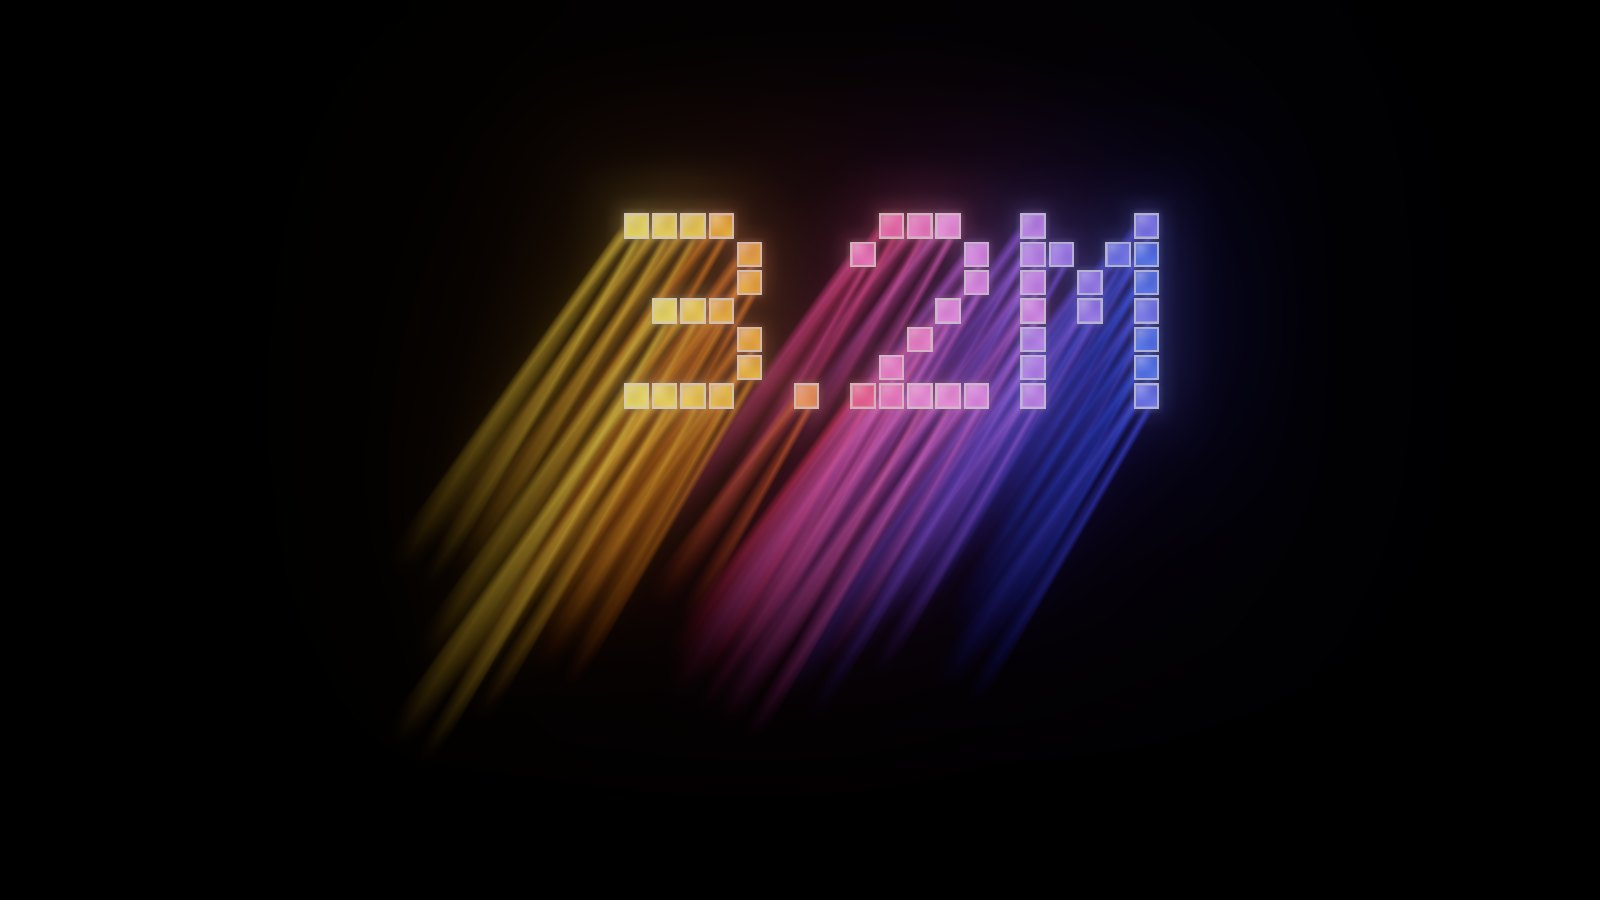
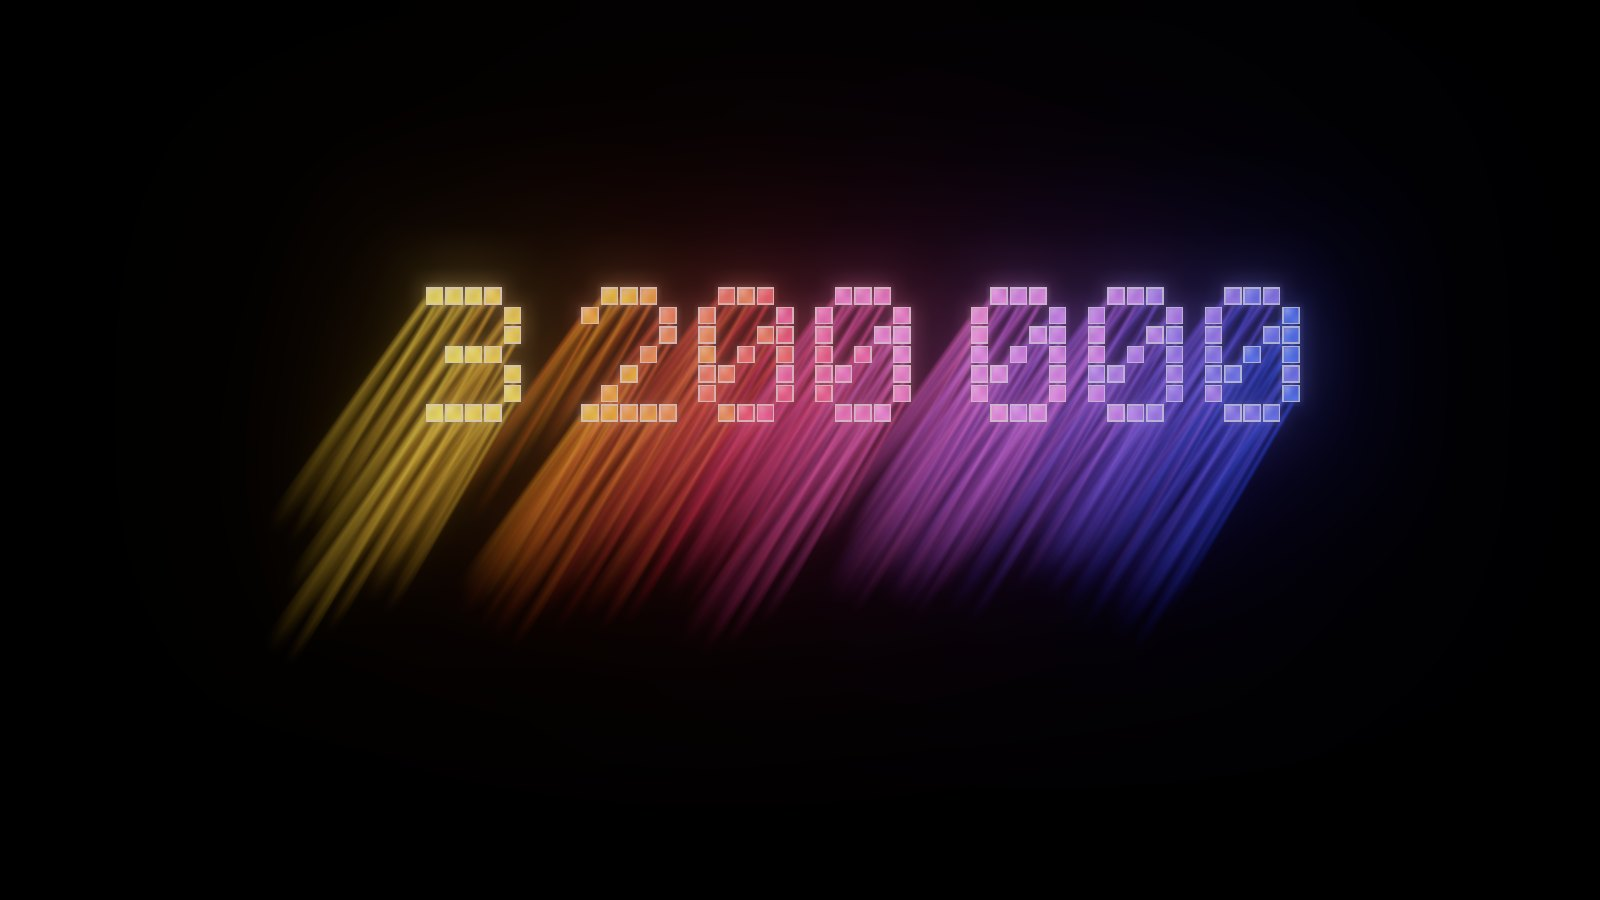
2:00:00 sur Steam, nom officiel 3 200 000, actualités sans dates incertaines
- 2:00:00 présenté comme un jeu Steam en développement.
- 3.2M renommé 3 200 000 partout (textes et visuels refaits).
- Actualités : dates retirées en attendant la chronologie validée.

Claude-Session: https://claude.ai/code/session_01AeWBKp6jY6m2cPjRKCQ14V

Changed region(s): [[0.1562, 0.1867, 0.8438, 0.8089]]

diff --git a/app.js b/app.js
@@ -21,27 +21,26 @@ const games = [
     link:"https://play.google.com/store/apps/details?id=com.FantinHD.CleanGlass"
   },
   {
-    name:"3.2M", sub:"", state:"Android · En développement",
+    name:"3 200 000", sub:"", state:"Android · En développement",
     intro:["Un seul objectif : ", "détruire 3 200 000 blocs", ". Pour y arriver, il faudra faire progresser ses billes et leurs effets."],
     more:"Billes spéciales, fusions, améliorations et missions quotidiennes sont en cours de préparation.",
     poster:"assets/images/visuels/affiche-3-2m.jpg", photo:"assets/images/affiche-3-2m.jpg", link:""
   },
   {
-    name:"2:00:00", sub:"", state:"PC · En développement",
-    intro:["2:00:00 est une ", "expérience minimaliste", " : une salle blanche, une roue et un bouton SPIN."],
-    more:"Un projet autour de l'attente et du hasard. Plus de détails bientôt.",
+    name:"2:00:00", sub:"", state:"Steam · En développement",
+    intro:["2:00:00 est une ", "expérience minimaliste sur PC", " : une salle blanche, une roue et un bouton SPIN."],
+    more:"Un projet autour de l'attente et du hasard, qui sortira sur Steam. Plus de détails bientôt.",
     poster:"assets/images/visuels/affiche-2-00-00.jpg", photo:"assets/images/affiche-2-00-00.jpg", link:""
   }
 ];
 
-/* Actualités : uniquement des informations publiques (mises à jour visibles sur Google Play)
-   et l'état des projets en cours. Pas de date inventée. */
+/* Actualités : à remplir avec la chronologie validée par Fantin.
+   En attendant, uniquement des faits sûrs, sans date. */
 const news = [
-  { date:"Septembre 2026", title:"Clean Glass mis à jour", text:"Une nouvelle mise à jour de Clean Glass est disponible sur Google Play.", img:"assets/images/visuels/clean-glass.jpg" },
-  { date:"Septembre 2026", title:"Farkle : dés et classement améliorés", text:"Les dés et leur sélection ont été retravaillés, et le classement a été renforcé.", img:"assets/images/visuels/farkle.jpg" },
-  { date:"Août 2026", title:"Farkle : boutique et nouveau look", text:"Une boutique de skins cosmétiques arrive, avec une refonte visuelle du jeu.", img:"assets/images/visuels/farkle.jpg" },
-  { date:"En développement", title:"3.2M", text:"3 200 000 blocs à détruire. Le projet avance sur Android.", img:"assets/images/visuels/3-2m.jpg" },
-  { date:"En développement", title:"2:00:00", text:"Une nouvelle expérience sur PC est en préparation.", img:"assets/images/visuels/2-00-00.jpg" }
+  { date:"En développement", title:"2:00:00 arrive sur Steam", text:"Une expérience minimaliste autour de l'attente et du hasard, en préparation pour Steam.", img:"assets/images/visuels/2-00-00.jpg" },
+  { date:"En développement", title:"3 200 000", text:"3 200 000 blocs à détruire. Le projet avance sur Android.", img:"assets/images/visuels/3-2m.jpg" },
+  { date:"Disponible", title:"Clean Glass", text:"Le jeu de nettoyage relaxant est disponible sur Google Play.", img:"assets/images/visuels/clean-glass.jpg" },
+  { date:"Disponible", title:"Farkle", text:"Le jeu de dés médiéval est disponible sur Google Play.", img:"assets/images/visuels/farkle.jpg" }
 ];
 
 const el = (tag, cls, text) => { const e = document.createElement(tag); if (cls) e.className = cls; if (text) e.textContent = text; return e; };

diff --git a/index.html b/index.html
@@ -4,7 +4,7 @@
 <meta charset="utf-8">
 <meta name="viewport" content="width=device-width,initial-scale=1,viewport-fit=cover">
 <title>FantinHD — Jeux indépendants</title>
-<meta name="description" content="FantinHD, développeur indépendant de jeux Android et PC. Farkle et Clean Glass sur Google Play, 3.2M et 2:00:00 en développement.">
+<meta name="description" content="FantinHD, développeur indépendant de jeux Android et PC. Farkle et Clean Glass sur Google Play, 3 200 000 en développement, 2:00:00 bientôt sur Steam.">
 <meta name="theme-color" content="#000000">
 <meta property="og:type" content="website">
 <meta property="og:title" content="FantinHD — Jeux indépendants">
@@ -77,8 +77,8 @@
   <section class="about" id="apropos" aria-labelledby="about-title">
     <div class="about__inner">
       <h2 class="about__title" id="about-title">Un développeur,<br><strong>plusieurs mondes</strong></h2>
-      <p>FantinHD, c'est mon nom de développeur. Je crée des jeux indépendants sur Android et je prépare un premier projet pour PC, sans m'enfermer dans un genre : un jeu de dés médiéval, un jeu de nettoyage relaxant, 3 200 000 blocs à détruire, une expérience autour de l'attente et du hasard.</p>
-      <p>Farkle et Clean Glass sont déjà disponibles sur Google Play. 3.2M et 2:00:00 sont en développement.</p>
+      <p>FantinHD, c'est mon nom de développeur. Je crée des jeux indépendants sur Android et je prépare mon premier jeu sur Steam, sans m'enfermer dans un genre : un jeu de dés médiéval, un jeu de nettoyage relaxant, 3 200 000 blocs à détruire, une expérience autour de l'attente et du hasard.</p>
+      <p>Farkle et Clean Glass sont déjà disponibles sur Google Play. 3 200 000 est en développement sur Android, et 2:00:00 sortira sur Steam.</p>
       <a class="btn-outline" href="https://play.google.com/store/apps/dev?id=8088754359282570640" target="_blank" rel="noopener noreferrer">Mes jeux sur Google Play</a>
     </div>
   </section>
@@ -86,7 +86,7 @@
 
 <footer class="footer">
   <div class="footer__top">
-    <p class="footer__legal">© <span id="year">2026</span> FantinHD. Farkle, Clean Glass, 3.2M, 2:00:00 et le logo FantinHD sont des créations de FantinHD. Tous droits réservés.</p>
+    <p class="footer__legal">© <span id="year">2026</span> FantinHD. Farkle, Clean Glass, 3 200 000, 2:00:00 et le logo FantinHD sont des créations de FantinHD. Tous droits réservés.</p>
     <img class="footer__logo" src="assets/logo/logo-blanc-aura.png" alt="FantinHD" width="1400" height="395" loading="lazy">
   </div>
   <nav class="footer__links" aria-label="Liens">

diff --git a/assets/images/README.md b/assets/images/README.md
@@ -8,7 +8,7 @@ Pour afficher une **vraie capture** à la place, dépose-la **dans ce dossier** 
 | --- | --- | --- |
 | `affiche-farkle.jpg` | Affiche de Farkle | 800 × 1200 px (2:3, vertical) |
 | `affiche-clean-glass.jpg` | Affiche de Clean Glass | 800 × 1200 px (2:3, vertical) |
-| `affiche-3-2m.jpg` | Affiche de 3.2M | 800 × 1200 px (2:3, vertical) |
+| `affiche-3-2m.jpg` | Affiche de 3 200 000 | 800 × 1200 px (2:3, vertical) |
 | `affiche-2-00-00.jpg` | Affiche de 2:00:00 | 800 × 1200 px (2:3, vertical) |
 
 Le site la détecte tout seul : rien à changer dans le code. Les noms sont en minuscules, avec des traits d'union. Exporte un vrai JPEG, ne renomme pas un PNG.
